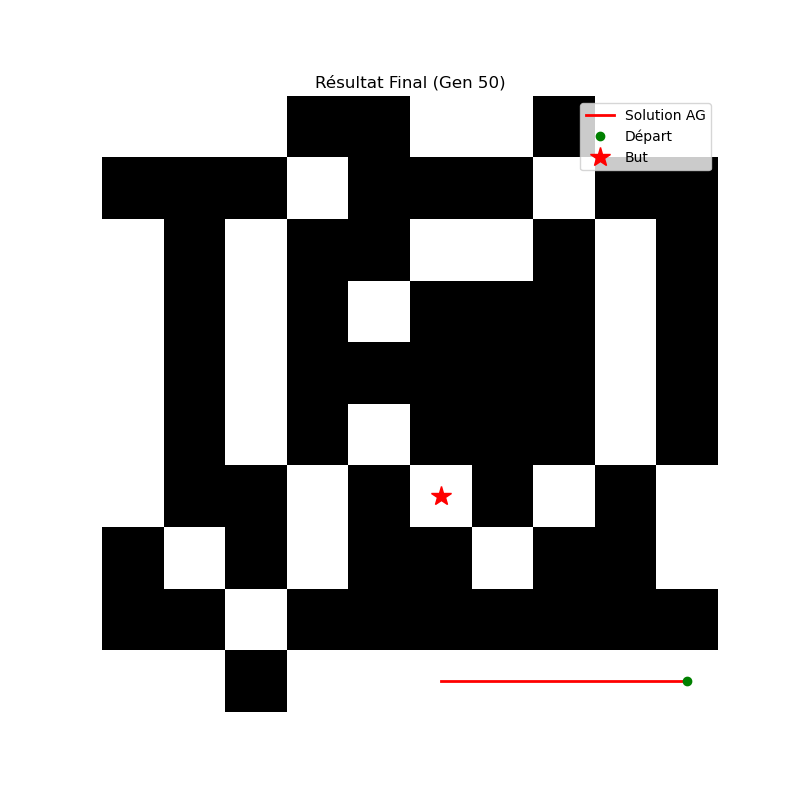
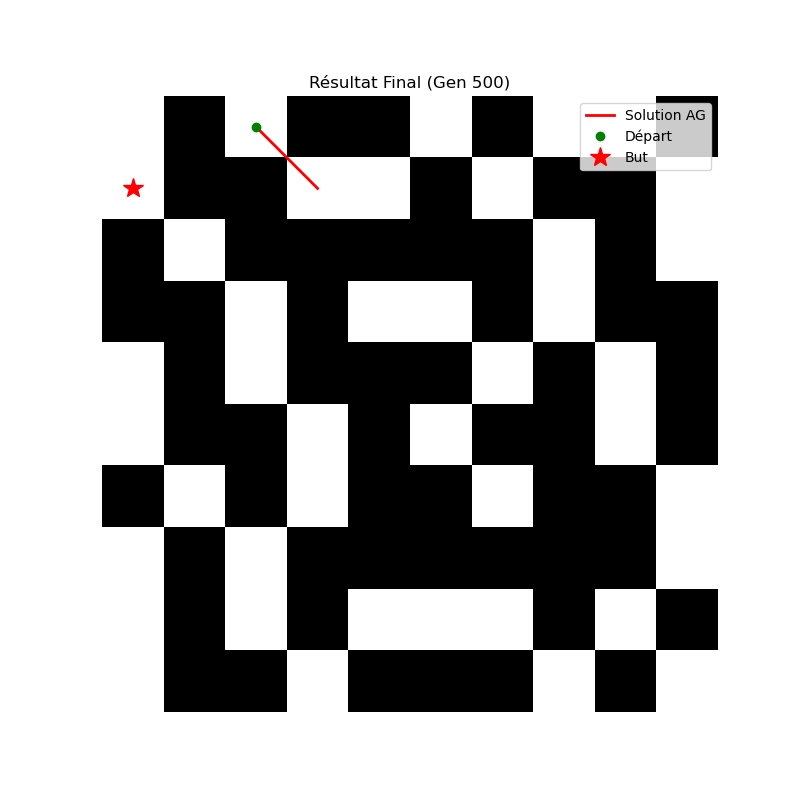
first commit

diff --git a/maze_genetique.py b/maze_genetique.py
@@ -167,8 +167,7 @@ class GeneticSolver :
         tm : taux de mutation [0, 1] -> si on veut quelques chose qui finit par arriver à la solution on doit le garder assez bas
         """
         
-        nb_mutations = int(len(self.population) * tm)
-        
+        nb_mutations = int(self.population.size * tm)        
         for i in range(nb_mutations):
             idx_individu = np.random.randint(0, len(self.population))
             

diff --git a/main.py b/main.py
@@ -142,9 +142,9 @@ def main():
     print("\n--- Lancement de l'Algorithme Génétique Complet ---")
     
     # HYPERPARAMETR§ES
-    MAX_GEN = 50
+    MAX_GEN = 500
     TS = 0.5
-    TM = 0.4
+    TM = 0.3
     POPULATION_SIZE = 100
     GENOME_LENGTH = N * 3
     USE_PHEROMONES = True
